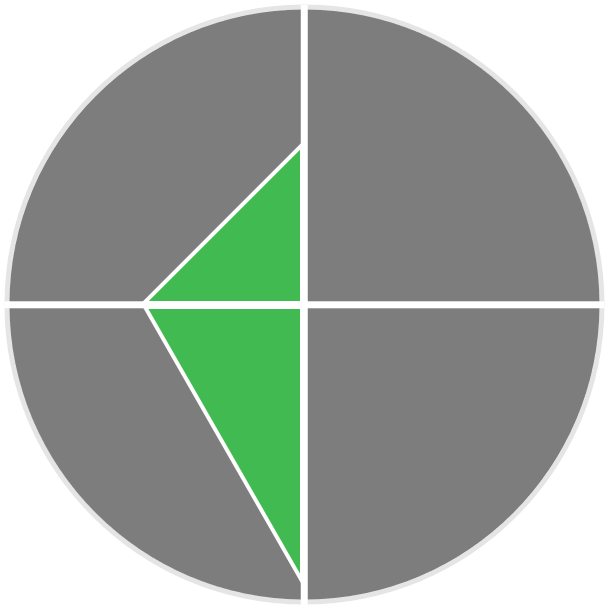
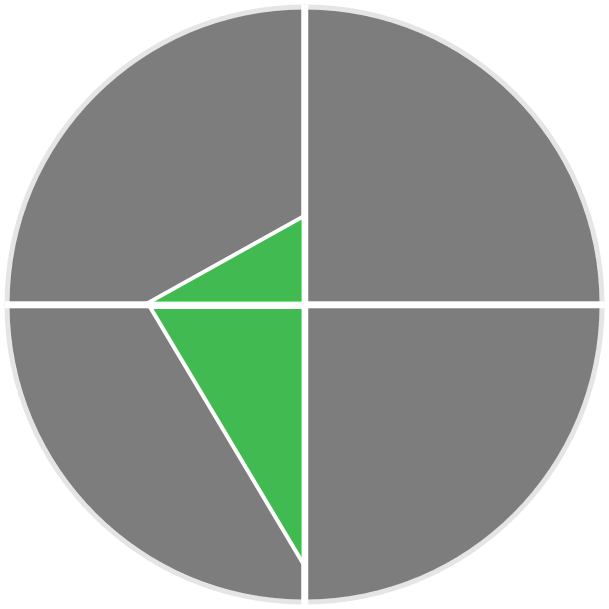
Stat balance changes
Increase Tank health to 200, increase Classic attack to 20, decrease Rogue health to 50.

Changed region(s): [[0.2184, 0.0312, 0.5304, 0.624], [0.312, 0.5304, 0.5304, 0.9672]]

diff --git a/TPK/Assets/Scripts/UI/PrephaseUI.cs b/TPK/Assets/Scripts/UI/PrephaseUI.cs
@@ -279,7 +279,7 @@ public class PrephaseUI : MonoBehaviour
         }
         else if (selectedHero == wizard)
         {
-            heroModel.SetBaseAttack(15);
+            heroModel.SetBaseAttack(20);
             heroModel.SetBaseDefense(5);
             heroModel.SetBaseMoveSpeed(10);
             heroModel.SetMaxHealth(80);
@@ -289,14 +289,14 @@ public class PrephaseUI : MonoBehaviour
             heroModel.SetBaseAttack(10);
             heroModel.SetBaseDefense(0);
             heroModel.SetBaseMoveSpeed(12);
-            heroModel.SetMaxHealth(100);
+            heroModel.SetMaxHealth(50);
         }
         else if (selectedHero == armored)
         {
             heroModel.SetBaseAttack(12);
             heroModel.SetBaseDefense(20);
             heroModel.SetBaseMoveSpeed(8);
-            heroModel.SetMaxHealth(175);
+            heroModel.SetMaxHealth(200);
         }
         else
         {
